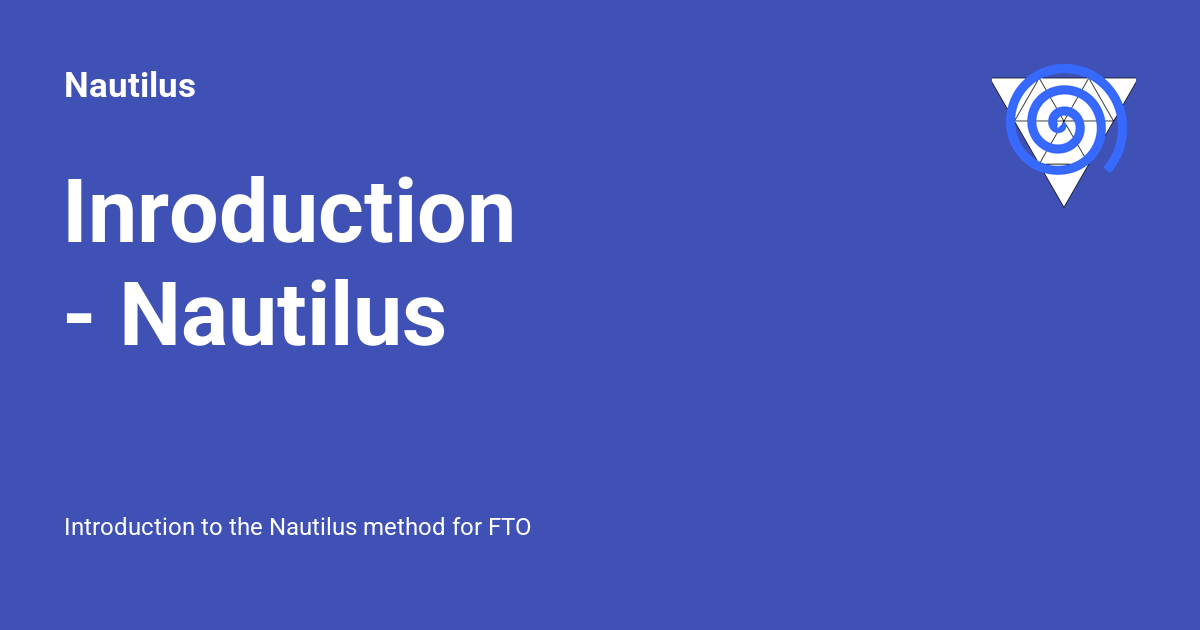
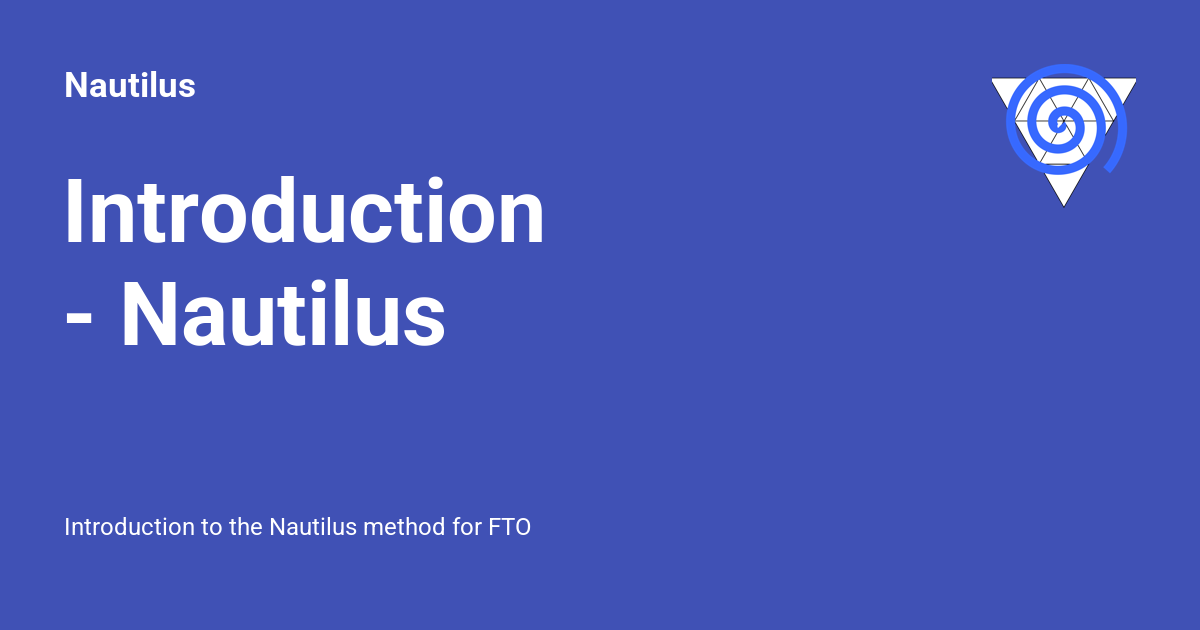
Update title card

Changed region(s): [[0.0925, 0.2714, 0.4625, 0.3921]]

diff --git a/docs/index.md b/docs/index.md
@@ -1,5 +1,5 @@
 ---
-title: Inroduction - Nautilus
+title: Introduction - Nautilus
 description: Introduction to the Nautilus method for FTO
 ---
 
